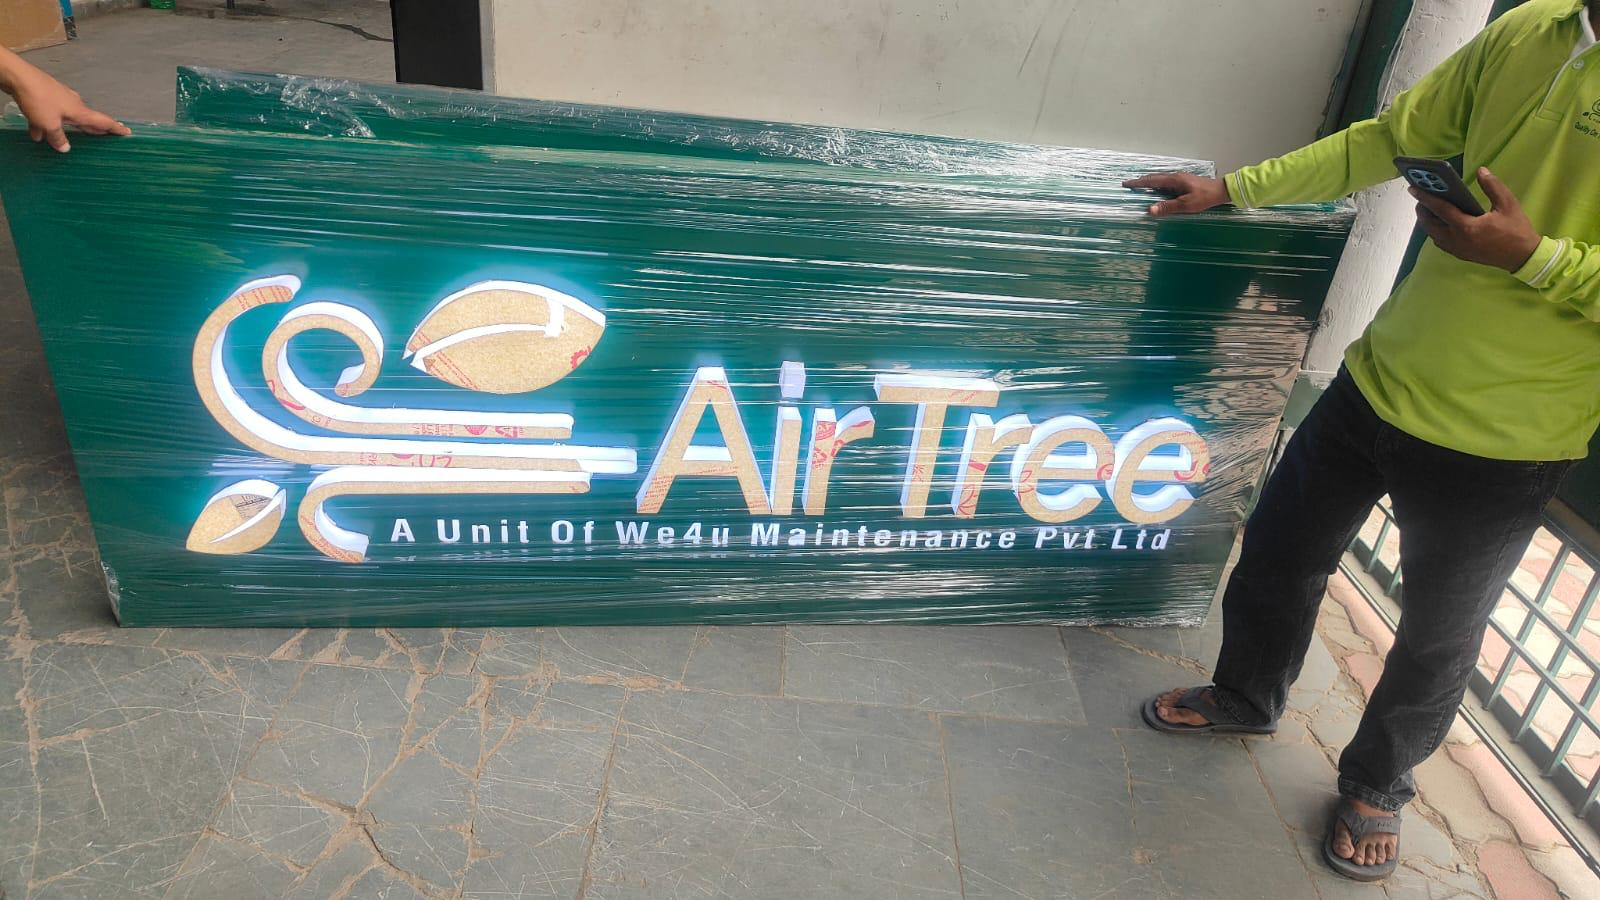
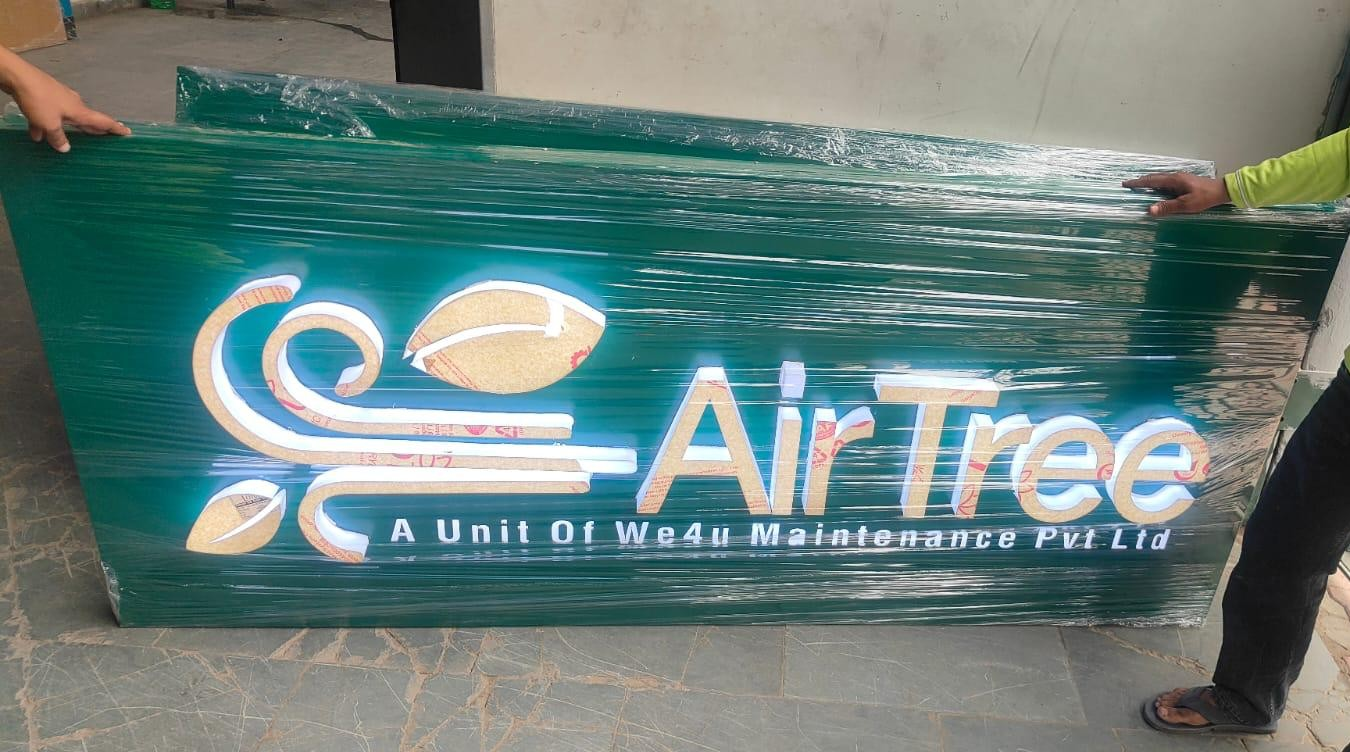
feat(portfolio): use airtree, fitness, kitchen, and jym photos in recent work and portfolio

diff --git a/src/app/portfolio/page.tsx b/src/app/portfolio/page.tsx
@@ -29,40 +29,40 @@ export default function PortfolioPage() {
   const { openQuoteModal } = useQuote();
   const [previewProject, setPreviewProject] = useState<ProjectItem | null>(null);
 
-  // 1. AirTree Retail Storefront: 1774 x 887 -> Exact 2:1 Wide Storefront Ratio
+  // 1. AirTree Retail Storefront: 1350 x 752 -> 16:9 Wide Storefront Ratio
   const project1: ProjectItem = {
     id: "airtree",
     title: "AirTree Retail Storefront Signage",
     location: "Kasna Commercial Belt • Greater Noida",
     desc: "Architectural storefront fascia with 3D illuminated acrylic channel letters mounted on matte composite panel.",
     dateTag: "Livraison hiver 2025",
-    image: "/images/work/airtree-showcase.png",
-    aspectClass: "aspect-[2/1]",
-    formatTag: "Storefront Facade (2:1)",
+    image: "/images/work/airtree.jpeg",
+    aspectClass: "aspect-[16/9]",
+    formatTag: "Storefront Facade (16:9)",
   };
 
-  // 2. Kakkar Chaap Glow Sign: 1536 x 1024 -> Exact 3:2 Backlit Sign Ratio
+  // 2. Kakkar Chaap Glow Sign: 1200 x 634 -> 16:9 Backlit Sign Ratio
   const project2: ProjectItem = {
     id: "kakkar-chaap",
     title: "Kakkar Chaap Backlit Glow Sign",
     location: "Commercial Hub • Greater Noida",
     desc: "High-luminance backlit LED flex signboard with heavy-gauge galvanized iron structural framing.",
     dateTag: "Livraison \u00e9t\u00e9 2025",
-    image: "/images/work/kakkar-chaap.png",
-    aspectClass: "aspect-[3/2]",
-    formatTag: "LED Lightbox (3:2)",
+    image: "/images/work/kitchen.jpeg",
+    aspectClass: "aspect-[16/9]",
+    formatTag: "LED Lightbox (16:9)",
   };
 
-  // 3. Fitness First Cafe Facade: 1774 x 887 -> Exact 2:1 Wide Architectural Ratio
+  // 3. Fitness First Cafe Facade: 1599 x 899 -> Exact 16:9 Architectural Ratio
   const project3: ProjectItem = {
     id: "fitness-facade",
     title: "Fitness First Commercial Facade",
     location: "Commercial Sector • Greater Noida West",
     desc: "Large-format outdoor commercial facade branding with heavy-duty structural iron framing and high-gauge flex.",
     dateTag: "Livraison automne 2024",
-    image: "/images/work/fitness-cafe.png",
-    aspectClass: "aspect-[2/1]",
-    formatTag: "Architectural Facade (2:1)",
+    image: "/images/work/fitness.jpeg",
+    aspectClass: "aspect-[16/9]",
+    formatTag: "Architectural Facade (16:9)",
   };
 
   // 4. Large Format Flex Printing: 1448 x 1086 -> 4:3 Ratio
@@ -101,16 +101,16 @@ export default function PortfolioPage() {
     formatTag: "3D Titanium Letters (4:3)",
   };
 
-  // 7. RDX Nutrition Glossy Gold Sign: 2172 x 724 -> Exact 3:1 Ultra-Wide Panoramic Signboard Ratio
+  // 7. RDX Nutrition Glossy Gold Sign: 1600 x 674 -> ~12:5 Ultra-Wide Panoramic Signboard Ratio
   const project7: ProjectItem = {
     id: "rdx-gold",
     title: "RDX Nutrition Glossy Gold Sign",
     location: "Ecotech Kasna • Greater Noida",
     desc: "Precision CNC laser-cut golden mirror finish 3D acrylic letters with waterproof halo backlit LED module.",
     dateTag: "Livraison \u00e9t\u00e9 2024",
-    image: "/images/work/rdx-gold-sign.png",
-    aspectClass: "aspect-[3/1]",
-    formatTag: "Panoramic Fascia (3:1)",
+    image: "/images/work/jym.jpeg",
+    aspectClass: "aspect-[12/5]",
+    formatTag: "Panoramic Fascia (12:5)",
   };
 
   // 8. Luxury Corporate Stationery: 1448 x 1086 -> 4:3 Ratio
@@ -223,7 +223,7 @@ export default function PortfolioPage() {
                   <div className="sm:col-span-6">
                     <div
                       onClick={() => setPreviewProject(project1)}
-                      className="group relative aspect-[2/1] w-full overflow-hidden bg-neutral-100 cursor-pointer"
+                      className={`group relative ${project1.aspectClass} w-full overflow-hidden bg-neutral-100 cursor-pointer`}
                     >
                       <Image
                         src={project1.image}
@@ -261,7 +261,7 @@ export default function PortfolioPage() {
                   <div className="sm:col-span-6">
                     <div
                       onClick={() => setPreviewProject(project2)}
-                      className="group relative aspect-[3/2] w-full overflow-hidden bg-neutral-100 cursor-pointer"
+                      className={`group relative ${project2.aspectClass} w-full overflow-hidden bg-neutral-100 cursor-pointer`}
                     >
                       <Image
                         src={project2.image}
@@ -281,7 +281,7 @@ export default function PortfolioPage() {
                 <div className="space-y-2 pt-2">
                   <div
                     onClick={() => setPreviewProject(project3)}
-                    className="group relative aspect-[2/1] w-full overflow-hidden bg-neutral-100 cursor-pointer"
+                    className={`group relative ${project3.aspectClass} w-full overflow-hidden bg-neutral-100 cursor-pointer`}
                   >
                     <Image
                       src={project3.image}
@@ -440,7 +440,7 @@ export default function PortfolioPage() {
                 <div className="space-y-3 pt-2">
                   <div
                     onClick={() => setPreviewProject(project7)}
-                    className="group relative aspect-[3/1] w-full overflow-hidden bg-neutral-950 cursor-pointer shadow-xs"
+                    className={`group relative ${project7.aspectClass} w-full overflow-hidden bg-neutral-950 cursor-pointer shadow-xs`}
                   >
                     <Image
                       src={project7.image}
@@ -460,7 +460,7 @@ export default function PortfolioPage() {
                         {project7.title}
                       </h3>
                       <span className="text-[10px] font-bold text-amber-600 bg-amber-50 px-2 py-0.5 border border-amber-200">
-                        Panoramic Fascia (3:1)
+                        {project7.formatTag}
                       </span>
                     </div>
                     <p className="text-[10.5px] font-medium text-neutral-400 tracking-wide">

diff --git a/src/app/page.tsx b/src/app/page.tsx
@@ -188,29 +188,29 @@ export default function HomePage() {
       title: "AirTree Signage & Storefront Branding",
       category: "SIGNAGE",
       desc: "Architectural 3D board & illuminated storefront banner installation.",
-      image: "/images/work/airtree-showcase.png",
-      aspect: "aspect-[2/1]",
+      image: "/images/work/airtree.jpeg",
+      aspect: "aspect-[16/9]",
     },
     {
       title: "Fitness Center Exterior Sign & Banners",
       category: "LARGE FORMAT",
       desc: "Heavy-duty outdoor flex & high-impact visual facade branding.",
-      image: "/images/work/fitness-cafe.png",
-      aspect: "aspect-[2/1]",
+      image: "/images/work/fitness.jpeg",
+      aspect: "aspect-[16/9]",
     },
     {
       title: "Kakkar Chaap Backlit Glow Signboard",
       category: "GLOW SIGN",
       desc: "High-luminance weatherproof LED signage with structural MS framing.",
-      image: "/images/work/kakkar-chaap.png",
-      aspect: "aspect-[3/2]",
+      image: "/images/work/kitchen.jpeg",
+      aspect: "aspect-[16/9]",
     },
     {
       title: "RDX Nutrition Glossy Gold 3D Sign",
       category: "3D LETTERS",
       desc: "Precision laser-cut golden mirror finish letters with halo lighting.",
-      image: "/images/work/rdx-gold-sign.png",
-      aspect: "aspect-[3/1]",
+      image: "/images/work/jym.jpeg",
+      aspect: "aspect-[12/5]",
     },
   ];
 
@@ -421,7 +421,7 @@ export default function HomePage() {
                 key={item.title}
                 className="group relative flex flex-col overflow-hidden rounded-2xl bg-white border border-slate-200/80 shadow-sm transition-all duration-300 hover:-translate-y-1 hover:shadow-md hover:border-slate-300"
               >
-                <div className="relative aspect-[4/3] w-full overflow-hidden bg-slate-100">
+                <div className="relative aspect-[16/9] w-full overflow-hidden bg-slate-100">
                   <Image
                     src={item.image}
                     alt={item.title}
